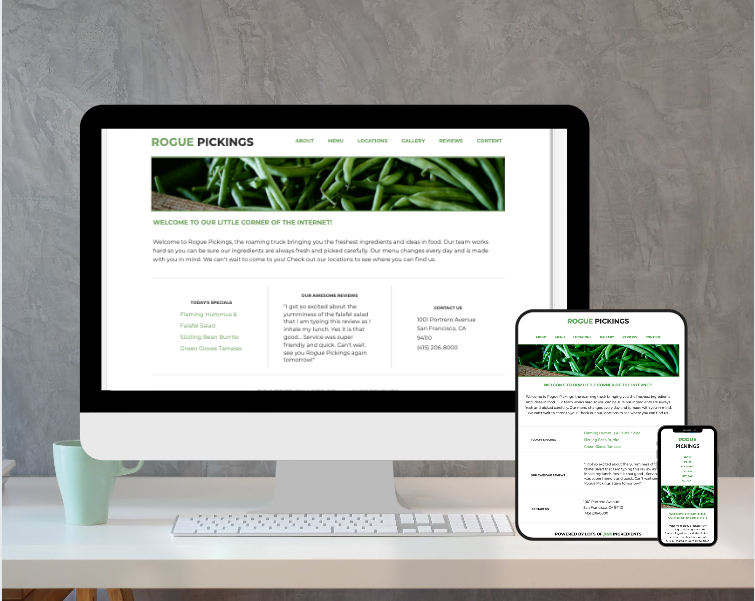
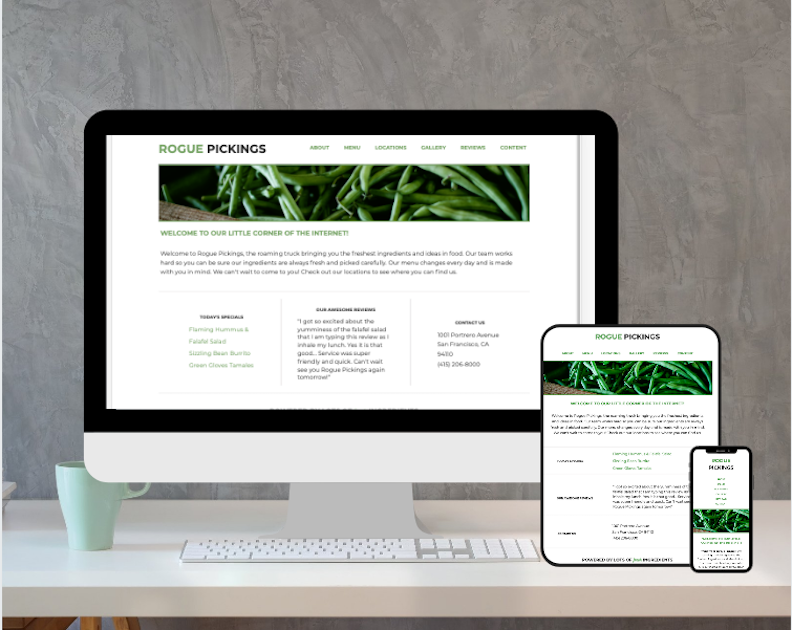
updated work page photos and cleaned up files

diff --git a/work/index.html b/work/index.html
@@ -57,7 +57,7 @@
                 <div class='project-desc'>
                     <div class="text title-border">Vision Board Project</div>
                     <figure>
-                        <a class="work-desc" href="https://brenda-cw.github.io/bw-vision-board/" target="_blank"><img src='../img/desktopVision-8x10.png' alt="Vision Board Website"/></a>
+                        <a class="work-desc" href="https://brenda-cw.github.io/bw-vision-board/" target="_blank"><img src='../img/visionMockUp-5x7.png' alt="Vision Board Website"/></a>
                     </figure>
                     <div class="description">
                         <h4>Goal:</h4>
@@ -82,7 +82,7 @@
                 <div class='project-desc'>
                     <div class="text title-border">Rogue Pickings Project</div>
                     <figure>
-                        <a class="work-desc" href="https://brenda-cw.github.io/rogue-pickings-responsive/" target="_blank"><img src='../img/desktopRogue-19x12.5.png' alt="Rogue Pickings Website"/></a>
+                        <a class="work-desc" href="https://brenda-cw.github.io/rogue-pickings-responsive/" target="_blank"><img src='../img/rogue-mockup.png' alt="Rogue Pickings Website"/></a>
                     </figure>
                     <div class="description">
                         <h4>Goal:</h4>
@@ -98,7 +98,7 @@
                 <div class='project-desc'>
                     <div class="text title-border">Unplugged Website Project</div>
                     <figure>
-                        <a class="work-desc" href="https://brenda-cw.github.io/unplugged-retreat/" target="_blank"><img src='../img/desktopUnplugged-8x10.png' alt="Unplugged Website"/></a>
+                        <a class="work-desc" href="https://brenda-cw.github.io/unplugged-retreat/" target="_blank"><img src='../img/unpluggedMock-11x8.png' alt="Unplugged Website"/></a>
                     </figure>
                     <div class="description">
                         <h4>Goal:</h4>
